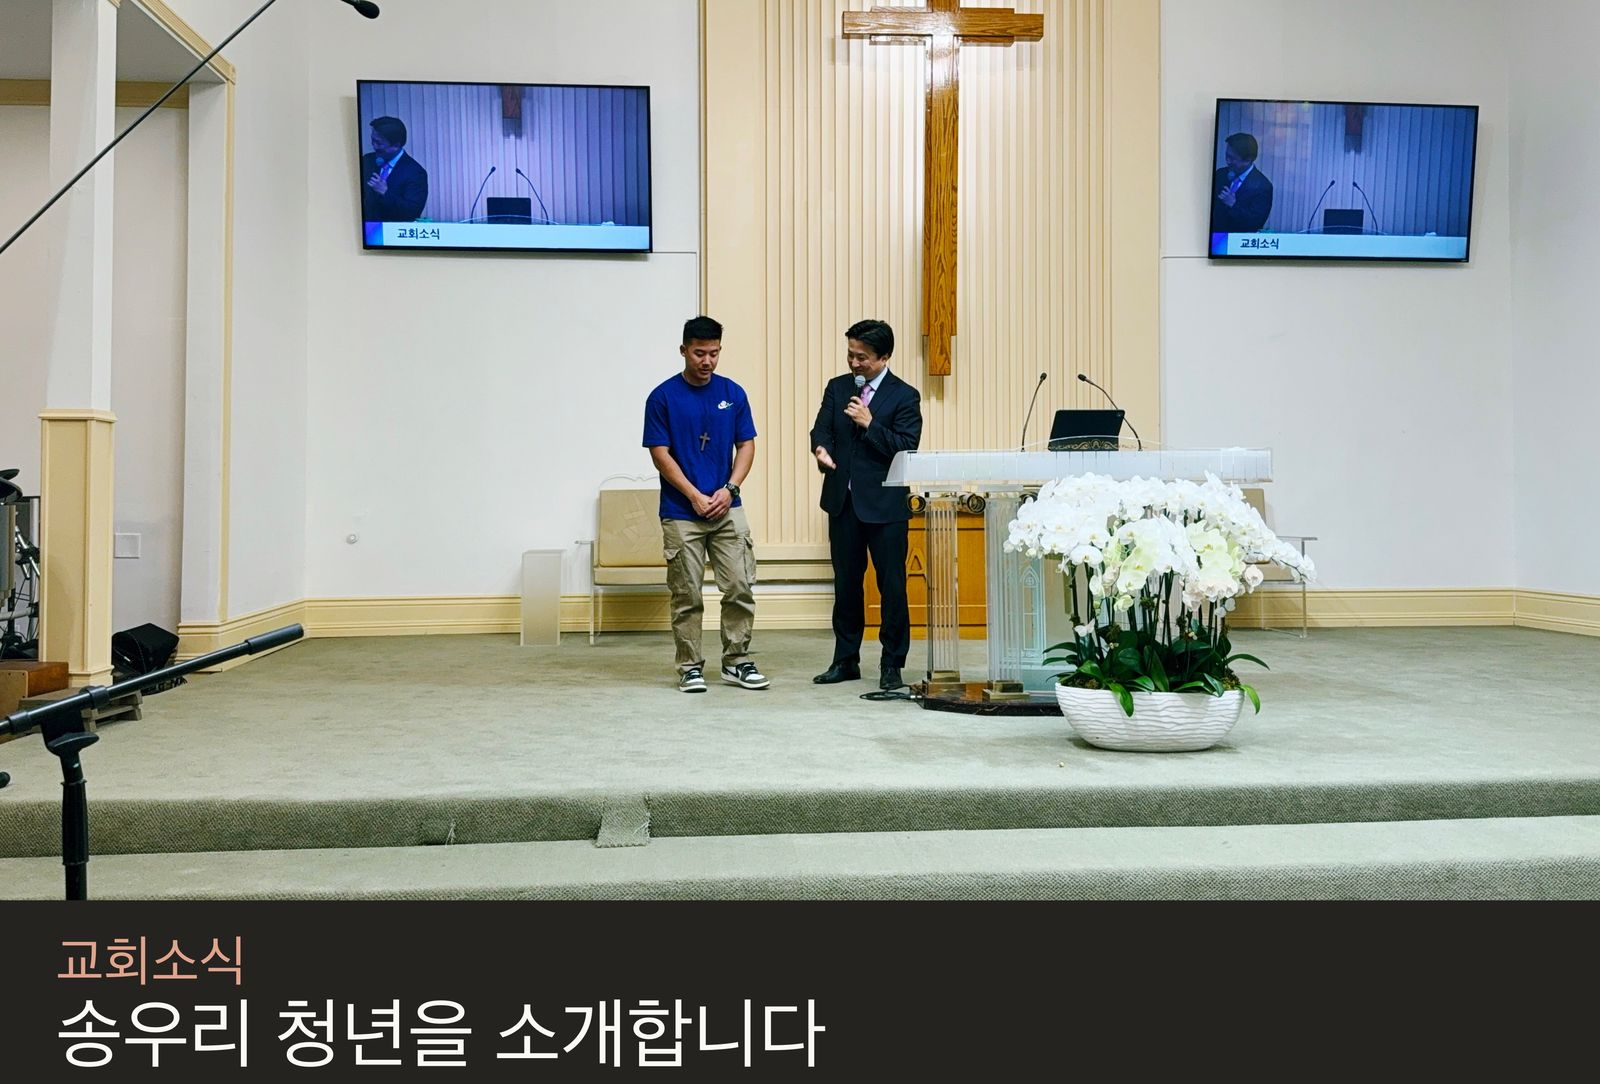
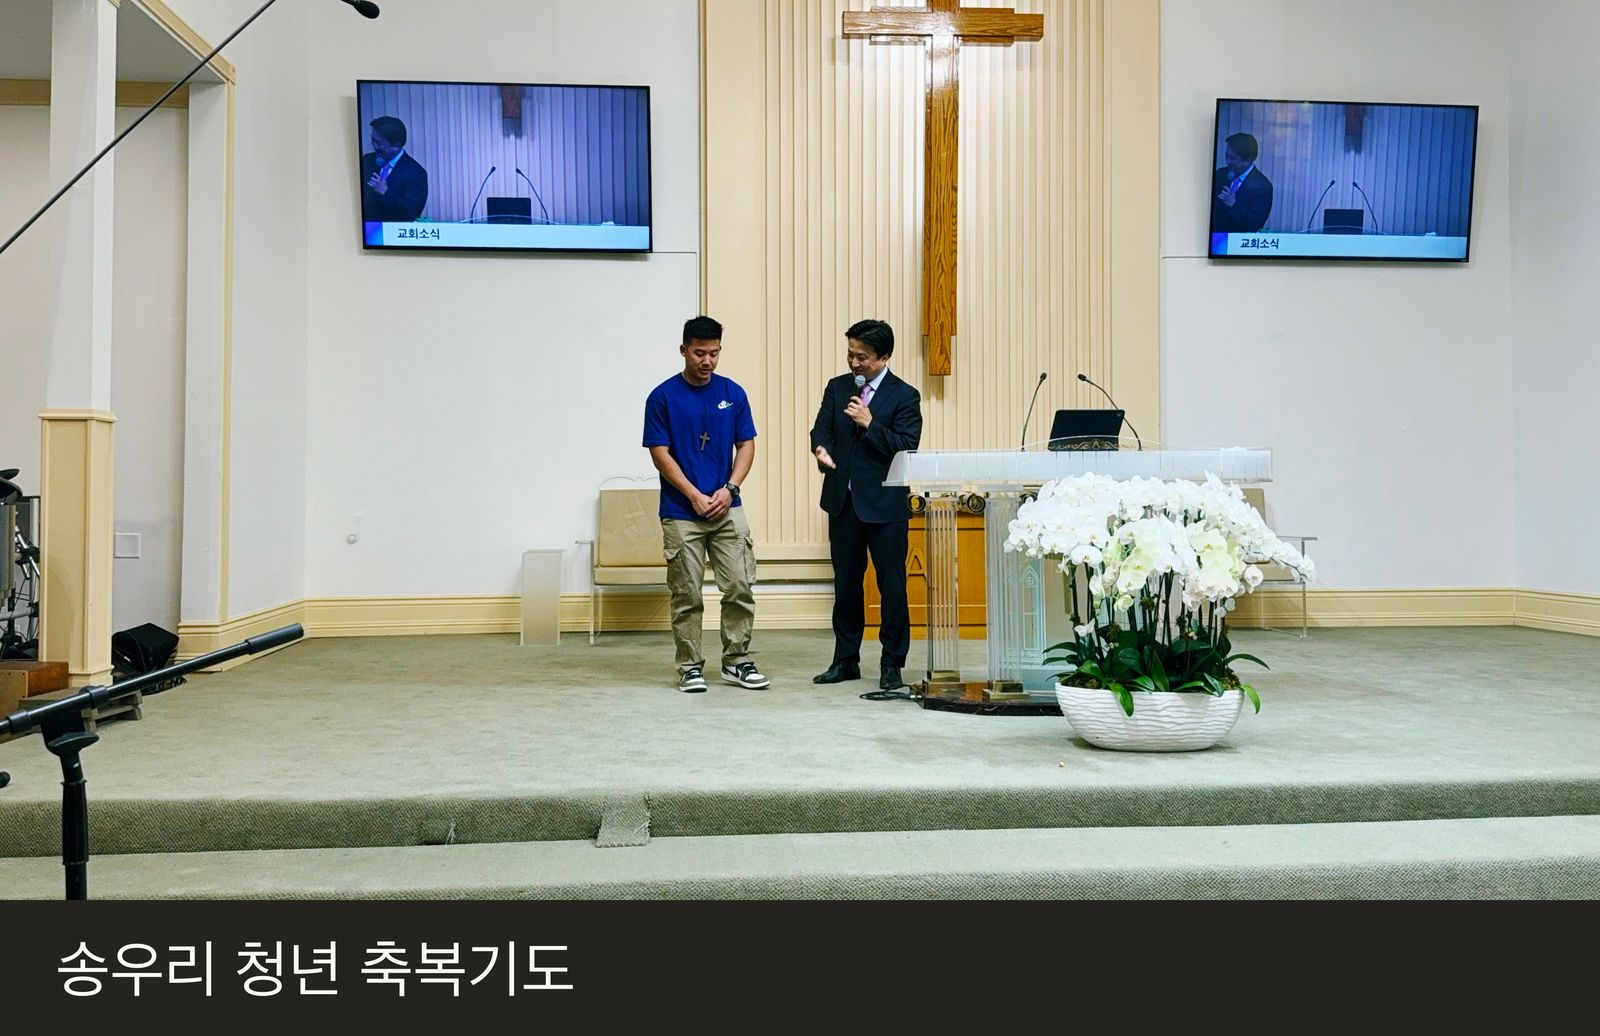
앨범 갱신: 2026-08-09-8g2b9

diff --git a/gallery/2026-08-09-8g2b9/index.html b/gallery/2026-08-09-8g2b9/index.html
@@ -67,7 +67,7 @@
   </header>
   <main class="grid" id="grid">
       <figure class="cell"><a class="tile" href="full/001.jpg" data-i="0" aria-label="사진 1"><img loading="lazy" src="thumb/001.jpg" alt="새가족 환영 — 장덕출 집사님 · 장윤숙 권사님"></a><figcaption class="cap">새가족 환영 — 장덕출 집사님 · 장윤숙 권사님</figcaption></figure>
-      <figure class="cell"><a class="tile" href="full/002.jpg" data-i="1" aria-label="사진 2"><img loading="lazy" src="thumb/002.jpg" alt="교회소식 — 송우리 청년을 소개합니다"></a><figcaption class="cap">교회소식 — 송우리 청년을 소개합니다</figcaption></figure>
+      <figure class="cell"><a class="tile" href="full/002.jpg" data-i="1" aria-label="사진 2"><img loading="lazy" src="thumb/002.jpg" alt="송우리 청년 축복기도"></a><figcaption class="cap">송우리 청년 축복기도</figcaption></figure>
       <figure class="cell"><a class="tile" href="full/003.jpg" data-i="2" aria-label="사진 3"><img loading="lazy" src="thumb/003.jpg" alt="축복 기도 — 온 교회가 손을 얹어 송우리 청년을 위해 기도합니다"></a><figcaption class="cap">축복 기도 — 온 교회가 손을 얹어 송우리 청년을 위해 기도합니다</figcaption></figure>
       <figure class="cell"><a class="tile" href="full/004.jpg" data-i="3" aria-label="사진 4"><img loading="lazy" src="thumb/004.jpg" alt="송우리 청년을 위한 축복"></a><figcaption class="cap">송우리 청년을 위한 축복</figcaption></figure>
   </main>
@@ -85,7 +85,7 @@
   </div>
 <script>
   const FULL=["001.jpg","002.jpg","003.jpg","004.jpg"];
-  const CAPS=["새가족 환영 — 장덕출 집사님 · 장윤숙 권사님","교회소식 — 송우리 청년을 소개합니다","축복 기도 — 온 교회가 손을 얹어 송우리 청년을 위해 기도합니다","송우리 청년을 위한 축복"];
+  const CAPS=["새가족 환영 — 장덕출 집사님 · 장윤숙 권사님","송우리 청년 축복기도","축복 기도 — 온 교회가 손을 얹어 송우리 청년을 위해 기도합니다","송우리 청년을 위한 축복"];
   const lb=document.getElementById('lb'),img=document.getElementById('lbimg'),count=document.getElementById('count');
   const lbcap=document.getElementById('lbcap');
   let cur=0;
